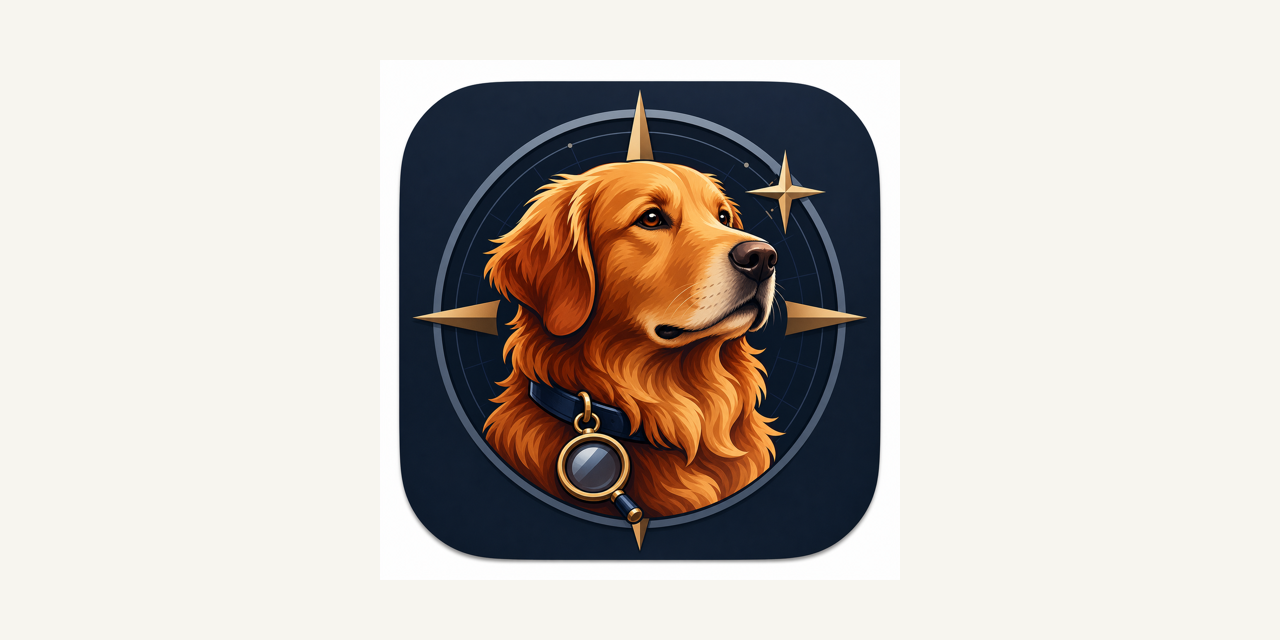
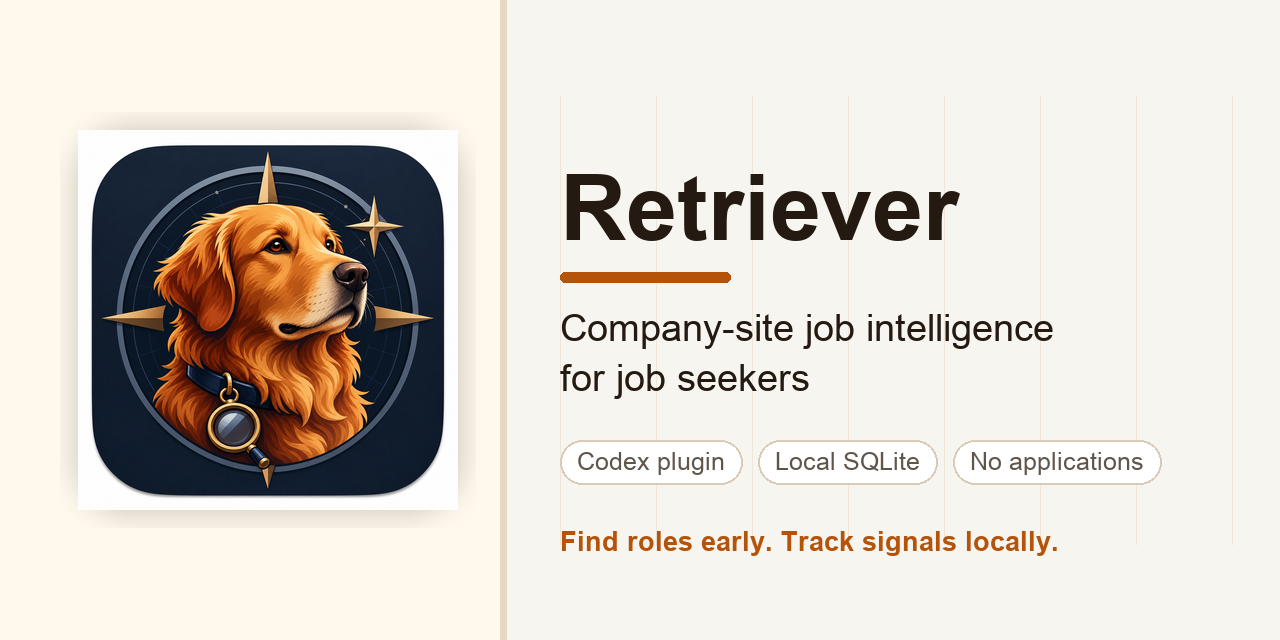
Refine GitHub social preview image

diff --git a/README.md b/README.md
@@ -72,14 +72,6 @@ Codex will invoke Retriever's bundled skills and use the local runtime under the
 
 References: [Codex plugins docs](https://learn.chatgpt.com/docs/plugins), [Codex skills and plugins docs](https://learn.chatgpt.com/docs/skills-and-plugins).
 
-## GitHub Presentation
-
-The README uses the Retriever logo from `plugins/retriever/assets/icon-256.png` so it renders on the GitHub repository page.
-
-GitHub social preview images are uploaded through repository settings rather than installed from a tracked repository file. Use `docs/assets/github-social-preview.png` for **Settings > Social preview**. It is a 1280 by 640 PNG under 1 MB, matching GitHub's recommended social-preview dimensions and size limit.
-
-Reference: [GitHub social preview docs](https://docs.github.com/en/repositories/managing-your-repositorys-settings-and-features/customizing-your-repository/customizing-your-repositorys-social-media-preview).
-
 ## Runtime Commands for Development
 
 Initialize local state: